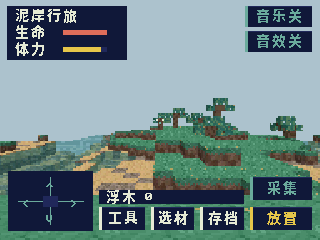
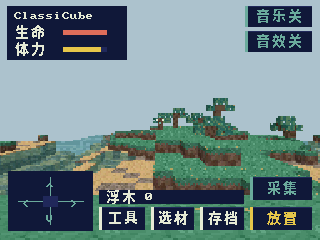
更名为 ClassiCube 实战派移植版并补全源码关系

Changed region(s): [[0.0312, 0.0292, 0.2812, 0.1167]]

diff --git a/standalone/main/silt_controls.c b/standalone/main/silt_controls.c
@@ -72,6 +72,17 @@ static void label(Band b, int x, int y, const char *message, uint16_t color, int
     silt_text_draw(b.buf, b.y, b.rows, x, y, message, color, scale);
 }
 
+static void centered(Band b, int y, const char *message, uint16_t color, int scale)
+{
+    label(b, (320 - silt_text_width(message, scale)) / 2, y, message, color, scale);
+}
+
+static void project_title(Band b, int y)
+{
+    centered(b, y, "ClassiCube", chalk, 2);
+    centered(b, y + 30, "实战派 ESP32-S3 移植版", tide, 1);
+}
+
 static void button(Band b, Box box, const char *name, uint16_t color)
 {
     rect(b, box.x, box.y, box.w, box.h, dark);
@@ -243,8 +254,8 @@ void silt_draw_band(uint16_t *dst, int y0, int rows)
         if (atomic_load(&s_show_loading)) {
             rect(b, 0, y0, 320, rows, dark);
             rect(b, 48, 80, 224, 2, tide);
-            label(b, 96, 98, "泥岸行旅", chalk, 2);
-            label(b, 112, 143, "正在进入河口", gold, 1);
+            project_title(b, 92);
+            centered(b, 148, "正在进入河口", gold, 1);
         }
         return;
     }
@@ -252,7 +263,7 @@ void silt_draw_band(uint16_t *dst, int y0, int rows)
     silt_rules_snapshot(&state);
 
     rect(b, 7, 6, 120, 54, dark);
-    label(b, 14, 9, "泥岸行旅", chalk, 1);
+    label(b, 14, 9, "ClassiCube", chalk, 1);
     label(b, 14, 25, "生命", chalk, 1);
     label(b, 14, 42, "体力", chalk, 1);
     meter(b, 63, 30, state.health, SV_MAX_HEALTH, red);
@@ -307,8 +318,8 @@ void silt_boot_message(const char *message)
         Band b = {pixels, y, ROWS};
         rect(b, 0, y, 320, ROWS, dark);
         rect(b, 25, 84, 270, 2, tide);
-        label(b, 96, 104, "泥岸行旅", chalk, 2);
-        label(b, (320 - silt_text_width(message, 1)) / 2, 145, message, gold, 1);
+        project_title(b, 92);
+        centered(b, 148, message, gold, 1);
         if (bsp_lcd_blit(0, y, 320, y + ROWS, pixels) != ESP_OK) break;
     }
     free(pixels);

diff --git a/upstream/ClassiCube/src/Constants.h b/upstream/ClassiCube/src/Constants.h
@@ -9,8 +9,8 @@ Copyright 2014-2025 ClassiCube | Licensed under BSD-3
 #define GAME_APP_VER "1.3.8"
 
 #if defined SILTWALK_STANDALONE
-#define GAME_APP_NAME  "Siltwalk"
-#define GAME_APP_TITLE "Siltwalk"
+#define GAME_APP_NAME  "ClassiCube ESP32-S3"
+#define GAME_APP_TITLE "ClassiCube ESP32-S3"
 #elif defined CC_BUILD_WEB
 #define GAME_APP_ALT   "ClassiCube 1.3.8 web mobile"
 #define GAME_APP_NAME  "ClassiCube 1.3.8 web"

diff --git a/UPSTREAM.md b/UPSTREAM.md
@@ -1,14 +1,18 @@
-# Upstream
+# 上下游源码关系
 
-This port vendors [ClassiCube](https://github.com/ClassiCube/ClassiCube) under
-`upstream/ClassiCube` at commit
-`bb706fd05ad6c338e68a17b4f2db45ef3a21663a` (2026-08-14).
+## 来源链
 
-The upstream code is BSD-3-Clause licensed. The vendored snapshot contains
-local ESP32-S3 platform, renderer, and memory-management changes; the dynamic
-module host adapter lives in `src/main`.
+| 层级 | 仓库和版本 | 在本仓库中的角色 |
+| --- | --- | --- |
+| 1. ClassiCube 上游 | [ClassiCube/ClassiCube · bb706fd](https://github.com/ClassiCube/ClassiCube/tree/bb706fd05ad6c338e68a17b4f2db45ef3a21663a) | 提供 C 语言游戏引擎，包括地图和区块网格、玩家控制、输入、纹理加载和游戏循环。提交号来自 HoloCubic 端口的上游说明。 |
+| 2. HoloCubic ESP32-S3 端口 | [clocteck/minecraft-esp32s3 · 883f3a8](https://github.com/clocteck/minecraft-esp32s3/tree/883f3a802a8dd7d1413ffd62d8b9c0b77fb0149b) | 在 ClassiCube 上加入 ESP32-S3 平台代码、定点软件渲染、双核批量光栅、RGB565 分条显示和内存优化。该端口的发布形式是供 HoloCubic 宿主加载的模块。 |
+| 3. 实战派独立移植 | [ClingYang/siltwalk-esp32s3](https://github.com/ClingYang/siltwalk-esp32s3) | 以第 2 层为直接上游。保留 ESP32-S3 渲染底座，通过实战派板级驱动构建可独立烧录的 ESP-IDF 应用。加入触摸、中文界面、原创建材与音频、生存玩法和 SD 卡存档。 |
 
-Upstream documentation not needed by this port has been trimmed. The complete
-original documentation remains available in the
-[ClassiCube repository](https://github.com/ClassiCube/ClassiCube).
+## 从哪里看代码
 
+- [`upstream/ClassiCube/src/`](upstream/ClassiCube/src/) 是随项目提供的引擎代码。它包含第 2 层的 ESP32-S3 补丁，以及本项目为独立启动、位图资源、生存输入、地图生成和 PSRAM 做的后续改动。要核查本项目在引擎里的改动，可以和第 2 层的同路径代码对比。
+- [`src/main/`](src/main/) 沿用第 2 层的 Holo 平台、窗口呈现和音频模块。独立固件在这里挂接触摸与界面合成，并读取嵌入固件的原创资源。
+- [`standalone/`](standalone/) 是实战派独立工程。板级驱动复用此前实机验证的 ST7789、FT6336、SDMMC 和 ES8311 实现。`silt_host.c` 接到平台接口，`silt_controls.c` 负责触摸与中文 HUD，`silt_world.c` 和 `silt_rules.c` 分别负责河口地图和生存集成，`survival.c` 实现库存、工具、配方和昼夜规则。
+- 世界资源、原创建材和音效来自 [素材生成脚本](docs/development.md#重新生成原创资源)。[第三方许可与署名](THIRD_PARTY.md) 记录 ClassiCube 的 BSD-3-Clause、HoloCubic 端口的 GPL v3、字库的 OFL，以及其余组件说明。
+
+本仓库以第 2 层的固定提交为移植起点。保留的源码和后续修改一起发布，方便使用者按现有版本重建同一份固件。

diff --git a/README.md b/README.md
@@ -1,12 +1,22 @@
-# 泥岸行旅 · Siltwalk
+# ClassiCube 实战派 ESP32-S3 移植版
 
-在立创实战派 ESP32-S3 上运行的中文离线体素生存游戏。探索河口，采集浮木和芦苇，制作工具，搭起庇护所，并把地图和人物状态保存到 SD 卡。
+面向立创实战派 ESP32-S3 的 ClassiCube 社区移植，带中文界面和原创离线体素生存玩法。探索河口，采集浮木和芦苇，制作工具，搭起庇护所，并把地图和人物状态保存到 SD 卡。
 
 ![立创实战派实际 LCD 输出帧](docs/device-scene.png)
 
+## 源码来源
+
+**ClassiCube → HoloCubic 的 ESP32-S3 端口 → 本仓库的立创实战派独立固件。**
+
+- [ClassiCube · bb706fd](https://github.com/ClassiCube/ClassiCube/tree/bb706fd05ad6c338e68a17b4f2db45ef3a21663a) 提供游戏引擎与地图系统。
+- [HoloCubic 端口 · 883f3a8](https://github.com/clocteck/minecraft-esp32s3/tree/883f3a802a8dd7d1413ffd62d8b9c0b77fb0149b) 提供 ESP32-S3 定点渲染和平台适配，是本仓库的直接上游。
+- 本仓库接入实战派的显示、触摸、SD 和音频驱动，加入独立固件、中文界面和原创生存玩法。引擎目录保留了第二层已有的补丁。
+
+[源码目录对应关系与提交号](UPSTREAM.md) · [许可证及署名](THIRD_PARTY.md)
+
 ## 当前版本
 
-**v0.1.0 试玩版**。已接入触屏移动和视角、跳跃、长按采集、走近拾取、合成、建造、工具磨损、昼夜、受伤、复活，以及 SD 卡保存和读取。游戏用夜间寒冷、体力消耗和摔落作为主要危险。地图大小为 **96×32×96**，当前是离线单人体验。联网、敌对生物和模式选择不在这一版的功能范围内。
+**v0.1.1 试玩版**。已接入触屏移动和视角、跳跃、长按采集、走近拾取、合成、建造、工具磨损、昼夜、受伤、复活，以及 SD 卡保存和读取。游戏用夜间寒冷、体力消耗和摔落作为主要危险。地图大小为 **96×32×96**，当前是离线单人体验。联网、敌对生物和模式选择不在这一版的功能范围内。
 
 实板已确认进入地图、触摸移动、写入 SD 卡和重启恢复位置。采集、拾取、合成、库存扣除和损坏存档回退也通过了主机检查。实板固定存档视角的日常版日志约 **20–25 FPS**，帧率随视角和地形变化。截图为从设备读取的 LCD 合成帧；发布固件默认关闭自动抓帧。
 
